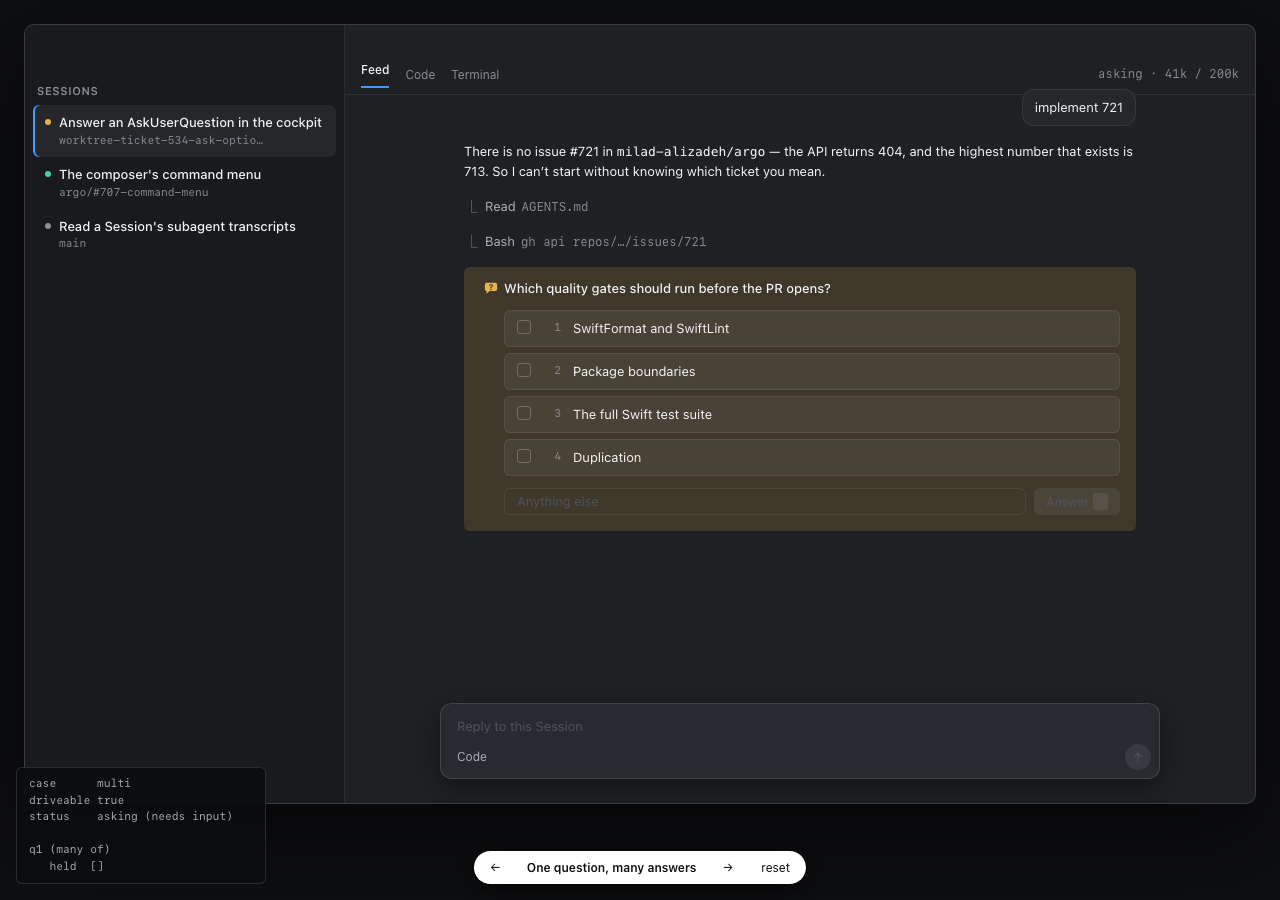
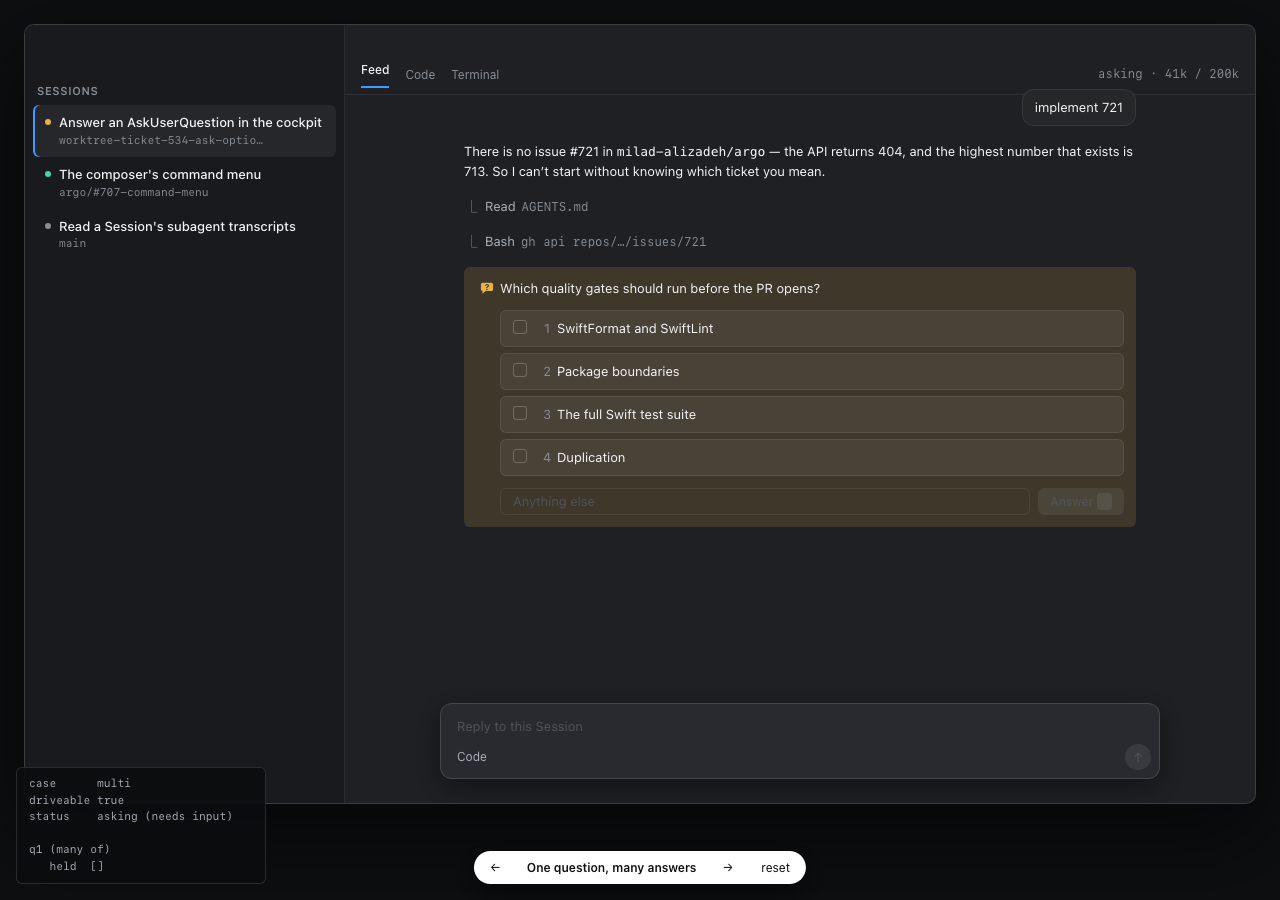
Review fixes: the design says what ships and what does not (#712, #534)
Both review axes found the same thing from different rules: the design's
measurements read as satisfied when half of them were not, because the
Components table called FeedAskOptions "unchanged" while the table above it
stated numbers the shipped Swift contradicts.

Fixed by splitting the measurements per state, each row saying `ships` or
`to build`. Where the design and the code disagreed the DESIGN was corrected
to the code, not the other way round — #534's settled reading was reviewed
and blessed on its own terms, and a design pass is not the place to reopen
it. Two rows stay deliberate changes and now say so: the waiting row loses
its stroked edge, and its options sit a `comfortable` under the question
because pressable cards need room a bare list does not.

The pressable options now take FeedMarker rather than a role of their own,
which removes the divergence instead of documenting it: a pressable option
and a read one carry the same digit in the same column.

askBoxSize is reverted. Nothing calls it until #712 builds the checkbox, and
rules/designs.md wants a missing value marked a proposal — which the design
does — rather than landed ahead of its consumer.

The marker column had two owners: FeedMarker drew the frame and FeedAskLine
spelled it again by hand. Now `feedMarkerColumn()`, so a width change
touches one place. FeedMarker gains the preview its own doc comment claims,
`9.` against `10.` on one vertical.
[…]

diff --git a/docs/designs/prototypes/ask-vessel-prototype.html b/docs/designs/prototypes/ask-vessel-prototype.html
@@ -137,14 +137,19 @@
    * Carried by its GROUND alone while it waits — no rule around it and no leading accent bar.
    * An amber stroke on four edges reads as an alert banner dropped into the column rather than
    * as a row of it. Settled, the ground goes and only the mark stays. */
+  /* FeedAskLine's own inset and step, to the value — the waiting state changes what the row
+     DOES, not how it is measured. */
   .ask {
-    padding: var(--s-comfortable) var(--s-loose) var(--s-loose);
+    padding: var(--s-comfortable);
     border-radius: var(--r-control);
-    display: flex; flex-direction: column; gap: var(--s-loose);
+    display: flex; flex-direction: column; gap: var(--s-comfortable);
   }
   .ask.pending { background: var(--attention-muted); }
 
+  /* Waiting, the option cards need room; settled, the list is `stepBeforeProse` under its
+     question exactly as #534 ships it. */
   .askq { display: flex; flex-direction: column; gap: var(--s-comfortable); }
+  .ask:not(.pending) .askq { gap: var(--s-hair); }
   .askq > .head { display: flex; gap: var(--marker-gap); align-items: flex-start; }
   .askq > .head > .glyph {
     width: var(--marker-w); flex: none; color: var(--attention);
@@ -153,7 +158,7 @@
     margin-top: 2px;
   }
   .ask:not(.pending) .askq > .head > .glyph { color: var(--text-3); }
-  .askq > .head > .q { font-weight: 500; }
+  /* No weight of its own: the question is already carried by the ground and the mark. */
 
   /* The options, as the thing you press. Indented to the marker grid, so the question's mark
      and the options they belong to read as one block. */
@@ -161,7 +166,7 @@
           margin-left: calc(var(--marker-w) + var(--marker-gap)); }
 
   .opt {
-    display: flex; gap: var(--s-comfortable); align-items: flex-start; width: 100%;
+    display: flex; gap: var(--marker-gap); align-items: flex-start; width: 100%;
     text-align: left; font: inherit; color: inherit; cursor: pointer;
     /* `surface.control` is the role by name: the ground under a control on a surface which is
        not the deck, which is exactly what an option row on the ask's ground is. */
@@ -176,9 +181,11 @@
      state: one click answers, so it would be on screen for a few frames at most. */
   .opt:hover { background-image: linear-gradient(var(--hover), var(--hover));
                border-color: var(--subtle); }
+  /* FeedMarker's own values — the settled reading numbers its options with exactly this, so a
+     pressable option and a read one carry the same digit in the same column. */
   .opt .n {
-    font-family: var(--mono); font-size: 11px; color: var(--text-3);
-    flex: none; width: var(--marker-w); text-align: right; margin-top: 1px;
+    font-size: 13px; font-variant-numeric: tabular-nums; color: var(--text-3);
+    flex: none; width: var(--marker-w); text-align: right;
   }
   .opt .l { color: var(--text-1); }
   .opt .d { color: var(--text-3); font-size: 11px; margin-top: 1px; }
@@ -196,13 +203,15 @@
   .opt.other:hover .l { color: var(--text-1); }
 
   /* Once it is answered nothing is pressable, and only the option that was taken keeps its ink. */
-  .taken { display: flex; gap: var(--s-comfortable); align-items: flex-start;
-           padding: var(--s-tight) 0; }
-  .taken .n { font-family: var(--mono); font-size: 11px; color: var(--text-3);
-              flex: none; width: var(--marker-w); text-align: right; margin-top: 2px; }
+  .taken { display: flex; gap: var(--marker-gap); align-items: flex-start;
+           padding: var(--s-hair) 0; }
+  .taken .n { font-size: 13px; font-variant-numeric: tabular-nums; color: var(--text-3);
+              flex: none; width: var(--marker-w); text-align: right; }
+  /* Settled is FeedAskOptions as #534 already ships it, to the value: the untaken step back to
+     secondary rather than going out, and the mark is ordinary ink. */
   .taken .l { color: var(--text-1); }
-  .taken.quiet .l { color: var(--text-off); }
-  .taken .tick { color: var(--attention); margin-left: var(--s-tight); }
+  .taken.quiet .l { color: var(--text-2); }
+  .taken .tick { color: var(--text-1); margin-left: var(--s-tight); }
 
   /* The free-text branch, and the Other answer, inline in the row. */
   /* The field and the button stand at ONE height — ArgoComposerVessel.decisionHeight — so the
@@ -583,7 +592,7 @@ function typedRow(q, i) {
    offered them, with only the taken one keeping its ink. Nothing here is pressable. */
 function settled(q, i) {
   const wrap = el('div', 'opts');
-  wrap.style.gap = 'var(--s-hair)';
+  wrap.style.gap = 'var(--s-tight)';   // FeedAskOptions' own step
   const a = answers[i];
   q.options.forEach(([label], k) => {
     const ordinal = k + 1;

diff --git a/apps/macOS/Packages/ArgoUI/Sources/ArgoUI/Shell/Deck/Feed/FeedMarker.swift b/apps/macOS/Packages/ArgoUI/Sources/ArgoUI/Shell/Deck/Feed/FeedMarker.swift
@@ -14,6 +14,30 @@ struct FeedMarker: View {
             .argoText(ArgoFeedRow.proseRung)
             .monospacedDigit()
             .foregroundStyle(argo.color.text.tertiary)
-            .frame(width: ArgoFeedRow.markerWidth, alignment: .trailing)
+            .feedMarkerColumn()
     }
+}
+
+extension View {
+    /// The marker column itself, for the marks that are not text — a question's glyph sits in the
+    /// same column its options are numbered in. Here rather than at each call site so the width
+    /// has ONE owner: two views spelling the same frame drift the moment one of them is retuned.
+    func feedMarkerColumn() -> some View {
+        frame(width: ArgoFeedRow.markerWidth, alignment: .trailing)
+    }
+}
+
+#Preview("Feed marker — one vertical either side of ten") {
+    VStack(alignment: .leading, spacing: ArgoSpacing.tight) {
+        ForEach(["9.", "10.", "•"], id: \.self) { mark in
+            HStack(alignment: .firstTextBaseline, spacing: ArgoFeedRow.markerGap) {
+                FeedMarker(text: mark)
+                Text("the words it sets").argoText(ArgoFeedRow.proseRung)
+            }
+        }
+    }
+    .padding(ArgoFeedRow.inset)
+    .frame(width: 320)
+    .argoDeckSurface()
+    .argoAppearance()
 }

diff --git a/apps/macOS/Packages/ArgoUI/Sources/ArgoUI/VisualContract/ArgoComposerVessel.swift b/apps/macOS/Packages/ArgoUI/Sources/ArgoUI/VisualContract/ArgoComposerVessel.swift
@@ -51,15 +51,6 @@ public enum ArgoComposerVessel {
     /// heights gives every line a different measure, and a label beside them no baseline to take.
     public static let chipHeight: CGFloat = 20
 
-    /// The box on one option of a many-of ask (#712). A TARGET and not a mark: the tick inside it
-    /// rides the icon scale at `inline`, and this is the box a pointer has to find.
-    ///
-    /// Between `ArgoIconSize.inline` (10), which is too small to aim at, and
-    /// `chipDismissDiameter` (18), which is a control's whole hit area rather than a box drawn
-    /// beside a label. Only a many-of question draws one: a one-of question is answered by the
-    /// click itself and has nothing to tick.
-    public static let askBoxSize: CGFloat = 14
-
     /// The `×` on an attachment's chip — the study's 18pt (#540). A target and not a mark: the
     /// glyph inside it rides the icon scale, and this is the box a pointer has to find. Larger than
     /// the chip it sits in is impossible and smaller than a finger's worth is useless, which is the

diff --git a/apps/macOS/Packages/ArgoUI/Sources/ArgoUI/Shell/Deck/Feed/Ask/FeedAskLine.swift b/apps/macOS/Packages/ArgoUI/Sources/ArgoUI/Shell/Deck/Feed/Ask/FeedAskLine.swift
@@ -57,7 +57,7 @@ private struct FeedAskQuestion: View {
             HStack(alignment: .firstTextBaseline, spacing: ArgoFeedRow.markerGap) {
                 ArgoGlyph(ArgoSymbol.asked, .inline)
                     .foregroundStyle(ink)
-                    .frame(width: ArgoFeedRow.markerWidth, alignment: .trailing)
+                    .feedMarkerColumn()
                 Text(question.text)
                     .argoText(ArgoFeedRow.proseRung)
                     .foregroundStyle(argo.color.text.primary)

diff --git a/docs/designs/cockpit-feed-ask.md b/docs/designs/cockpit-feed-ask.md
@@ -80,43 +80,76 @@ of it. Answered, the ground goes and nothing moves.
 
 ## Measurements
 
+**`ships` means the value is in the app today; `to build` means #712 puts it there.** Read the
+column — a table that does not say which is which reads as satisfied when half of it is not.
+Nothing here changes a value #534 already shipped: where the two disagreed, this design was
+corrected to the code, not the other way round.
+
+### The card — `FeedAskLine`
+
+| Measurement | Value | | Source |
+|---|---|---|---|
+| Radius | `ArgoRadius.control` 6 | ships | a control-scale surface, not a popover |
+| Padding | `ArgoSpacing.comfortable` 12, all four | ships | |
+| Between two questions in one call | `ArgoFeedRow.blockStep` — `comfortable` 12 | ships | one call, one ground: the step is within a block, not between rows |
+| Waiting ground | `state.muted(attention)` | ships | |
+| Waiting edge | **none** | **to build** | today the row strokes its edge in the attention ink; the waiting row is carried by its ground alone, so #712 **removes** that stroke |
+| Settled ground and edge | none | ships | |
+| Ask glyph | `ArgoSymbol.asked` (`questionmark.bubble`) at `ArgoIconSize.inline` 10 | ships | |
+| Glyph ink | `state.attention` waiting, `text.tertiary` settled | ships | |
+| Glyph column | `ArgoFeedRow.markerWidth` 18 trailing, `markerGap` 6 | ships | the feed's own marker grid, via `feedMarkerColumn()` |
+| Question type | `ArgoFeedRow.proseRung` — body 13, regular, `text.primary` | ships | no weight of its own: the ground and the mark already carry it |
+| Question head → its list | `stepBeforeProse` — `hair` 2 settled | ships | |
+| Question head → its options | `ArgoSpacing.comfortable` 12 waiting | **to build** | pressable cards need the room a bare list does not |
+
+### Waiting — the pressable options
+
+All **to build**. `FeedAskOfferList`, `FeedAskOfferRow`, `FeedAskAnswerRow`.
+
 | Measurement | Value | Source |
 |---|---|---|
-| Card radius | `ArgoRadius.control` 6 | the row is a control-scale surface, not a popover |
-| Card padding | `comfortable` 12 top, `loose` 16 sides and bottom | the extra bottom is the answer row's own breathing space |
-| Between two questions in one call | `ArgoSpacing.loose` 16 | |
-| Question head → its options | `ArgoSpacing.comfortable` 12 | |
-| Ask glyph | `ArgoSymbol.asked` (`questionmark.bubble`) at `ArgoIconSize.inline` 10 | already the feed's mark for an ask |
-| Glyph column | `ArgoFeedRow.markerWidth` 18, trailing-aligned, `markerGap` 6 | the feed's own marker grid |
-| Question type | `ArgoTypography.rowTitle` — body 13, medium | |
-| Options indent | 24 = `markerWidth` + `markerGap` | the options hang off the question's own grid |
+| List indent | 24 = `markerWidth` + `markerGap` | the cards hang under the question's words, not under its mark |
 | Between options | `ArgoSpacing.snug` 6 | |
-| Option ground | `surface.control` | "the ground under a control on a surface which is not the deck" — its own words |
+| Option ground | `surface.control` | "the ground under a control on a surface which is not the deck" — the role's own words |
 | Option hover | `surface.hover` laid over `surface.control`; edge `edge.hairline` → `edge.subtle` | two layers, not a third opacity standing for the pair |
 | Option pressed | **none** | one click answers, so it would be on screen for a few frames |
 | Option border, radius | `edge.hairline`, `ArgoRadius.control` 6 | |
 | Option padding | `base` 8 vertical, `comfortable` 12 horizontal | |
-| Option number | `ArgoTypography.machineCaption` 11, `text.tertiary`, in an 18 column, trailing-aligned | monospaced so a two-digit list keeps one vertical |
-| Number → label | `ArgoSpacing.comfortable` 12 | |
-| Option label / detail | `ArgoTypography.body` `text.primary` / `rowMeta` `text.tertiary` | |
-| Option ticked | ground `state.wash(attention)`, edge `state.rim(attention)`, number `state.attention` | the two rungs below `muted`, which the card itself wears |
-| Checkbox | `ArgoComposerVessel.askBoxSize` **14**, `ArgoRadius.marker` 3, edge `edge.strong` | **promoted for this design** — see below |
+| Option number | **`FeedMarker`** — `proseRung`, monospaced digits, `text.tertiary`, 18 trailing | the settled reading numbers its options with exactly this, so a pressable option and a read one carry the same digit in the same column |
+| Number → label | `ArgoFeedRow.markerGap` 6 | the same grid, so the two states do not shift under each other |
+| Option label / detail | `ArgoFeedRow.proseRung` `text.primary` / `ArgoTypography.rowMeta` `text.tertiary` | |
+| Option ticked | ground `state.wash(attention)`, edge `state.rim(attention)`, number `state.attention` | the two rungs below the `muted` the card itself wears |
+| Checkbox | **14**, `ArgoRadius.marker` 3, edge `edge.strong` | a **proposal**, not yet a token — see below |
 | Checkbox ticked | ground `state.attention`, `ArgoSymbol.chosen` at `.inline`, ink `text.onAccent` | |
-| Answer field and button | both `ArgoComposerVessel.decisionHeight` **27**, `ArgoSpacing.base` 8 apart | one height, so the row has one top and one bottom |
+| Field and button | both `ArgoComposerVessel.decisionHeight` 27, `ArgoSpacing.base` 8 apart | one height, so the row has one top and one bottom |
 | Field | no ground; edge `edge.hairline` → `interaction.accent` focused; radius 6; padding-x 12 | `ComposerField` draws no ground either |
-| Field type | `ArgoTypography.body` on `ArgoFeedRow.lineHeight` 20 | the feed's rhythm, not the font's own 18.85 |
+| Field type | `ArgoFeedRow.proseRung` on `ArgoFeedRow.lineHeight` 20 | the feed's rhythm, not the font's own 18.85 |
 | Answer button | `decisionMinimumWidth` 80 × `decisionHeight` 27, `interaction.accent`, `text.onAccent`, `ArgoTypography.control` | the Permission prompt's Allow, at its own measurements |
 | Answer button, nothing to send | ground `surface.marked`, ink `text.disabled` | |
 | Keycap | `ArgoTypography.machineCaption` on `surface.marked`, radius `marker` 3, padding `hair` 2 × `tight` 4 | `PermissionKeycap`'s own values |
-| Settled options | gap `ArgoSpacing.hair` 2; taken `text.primary` + `ArgoSymbol.chosen` in `state.attention`; untaken `text.disabled` | `FeedAskOptions` already quiets the untaken |
 | Hover motion | `ArgoMotion.selection` — 0.14, easeOut | it is a selection |
 
-### The one promotion
+### Settled — the reading
 
-`ArgoComposerVessel.askBoxSize = 14`, landed with this design. A many-of ask needs a box and the
-contract had no measurement for one. It sits between `ArgoIconSize.inline` (10), too small to
-aim at, and `chipDismissDiameter` (18), which is a control's whole hit area rather than a box
-drawn beside a label. Everything else on this screen snapped to a token that already existed.
+All **ships**, and #712 changes none of it. `FeedAskOptions`, as #534 built it.
+
+| Measurement | Value |
+|---|---|
+| Between options | `ArgoSpacing.tight` 4 |
+| Number | `FeedMarker` — `proseRung`, monospaced digits, `text.tertiary`, 18 trailing, `markerGap` 6 |
+| Taken | label `text.primary`, `ArgoSymbol.chosen` at `.inline` in `text.primary` |
+| Untaken, once one is taken | label `text.secondary` — a step back, not out |
+| Untaken, where the answer named none | unchanged, exactly as offered |
+
+### The one proposal
+
+**The checkbox, 14pt.** A many-of ask needs a box and the contract has no measurement for one.
+It sits between `ArgoIconSize.inline` (10), too small to aim at, and `chipDismissDiameter` (18),
+which is a control's whole hit area rather than a box drawn beside a label.
+
+It is a **proposal** and not yet in `ArgoComposerVessel`, per `rules/designs.md`: the token
+lands with the view that reads it, in #712. Everything else on this screen snapped to a token
+that already existed.
 
 ## Components
 
@@ -124,8 +157,9 @@ Frozen names — they become the view files and the ticket titles.
 
 | Name | What it is | Status |
 |---|---|---|
-| `FeedAskLine` | the card: one call, one ground, its questions | exists (#534) — gains the waiting branch |
+| `FeedAskLine` | the card: one call, one ground, its questions | exists (#534) — gains the waiting branch, and **loses its stroked edge** |
 | `FeedAskOptions` | the settled reading, numbered and quieted | exists (#534) — unchanged |
+| `FeedMarker` | the marker column, for numbers and marks alike | exists (#534) — unchanged |
 | `FeedAskOfferList` | the pressable options while it waits | new |
 | `FeedAskOfferRow` | one option — number, label, detail, box | new |
 | `FeedAskAnswerRow` | the field and its `Answer` button | new |

diff --git a/docs/designs/README.md b/docs/designs/README.md
@@ -99,6 +99,7 @@ under `docs/adr/`.
 | `cockpit-feed-working.inventory.md` | In-flight build inventory | What each ticket's build actually extracted from that design, one row per component, appended per ticket — #615 (a call in flight) and #616 (thinking) so far, plus the contract values each promoted |
 | `cockpit-roster-turn-clock.md` + `roster-clock/` | **Approved Turn-clock design** (#618) | How long a Turn has been running, read in the roster row's age slot: a live `4m 12s` in `state.running` for a managed Session, `output 12s ago` for an observed one, the seen reading otherwise. The header and feed stay silent. Three renders in `roster-clock/` are the spec |
 | `cockpit-roster-turn-clock.inventory.md` | Turn-clock build inventory | What #678's build actually extracted from that design — `RosterTurnClock` and the phrase it shares with the projection — and the splits that stayed inline |
+| `cockpit-feed-ask.md` + `feed-ask/` | **Approved ask design** (#712) | How a Session's question gets answered: in the feed row where it was asked, options pressable, one click the whole answer. **There is no vessel** — the composer's slot is not involved and `DeckVessel.resolve` gains no case, which reverses #712's own first proposal. Six renders in `feed-ask/` are the spec; the doc's measurements say per row whether the value ships today or #712 builds it |
 | `cockpit-roster-archive-foot.md` | **The roster's `Archived (n)` foot** | The one disclosure at the foot of the Sessions roster: anatomy, states, motion, keyboard, and the SwiftUI mechanic that stops the sidebar `Section` drawing a second chevron |
 | `cockpit-session-interior-decisions.md` | Session-interior decision log | Roster rows, dot-carries-state, zero-state, panel natures. Behaviour lineage; its master–detail *layout* was superseded by the single feed |
 
@@ -111,6 +112,18 @@ baselines — nothing diffs them (AGENTS.md → *Visual verification*). Regenera
 ```sh
 cd apps/macOS && sh scripts/specimens.sh <dir> [name …]
 ```
+
+## `prototypes/` — throwaway, and deliberately so
+
+Studies written to answer one design question by being *looked at*. They are **not** part of the
+design set: no tests, no abstractions, one file each, and every value transcribed from the Swift
+contract rather than invented. A prototype belongs on a throwaway branch once the design it fed
+is approved — it is a primary source to re-explore from, never a thing to build from.
+
+| File | Question it answered |
+|---|---|
+| `roster-header-prototype.html` | What should the Sessions roster row and the Session deck header show? (#502) |
+| `ask-vessel-prototype.html` + `.md` | How does a Session's question get answered? (#712) — settled by `cockpit-feed-ask.md` |
 
 ## What left, and where it went
 

diff --git a/docs/designs/prototypes/README.md b/docs/designs/prototypes/README.md
@@ -1,3 +1,6 @@
+> **This file covers the roster-header study only.** The other prototype here,
+> `ask-vessel-prototype.html`, has its own notes in `ask-vessel-prototype.md`.
+
 # Roster row + Session header — throwaway prototype
 
 **This branch is a primary source, not a starting point.** It exists so the decisions in
